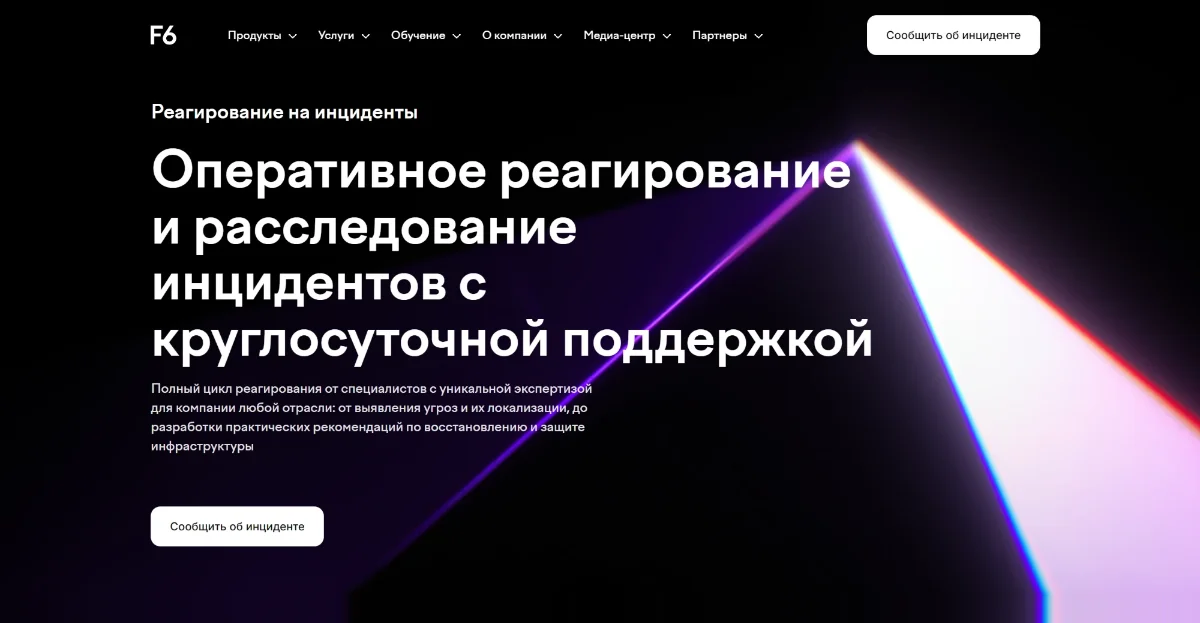
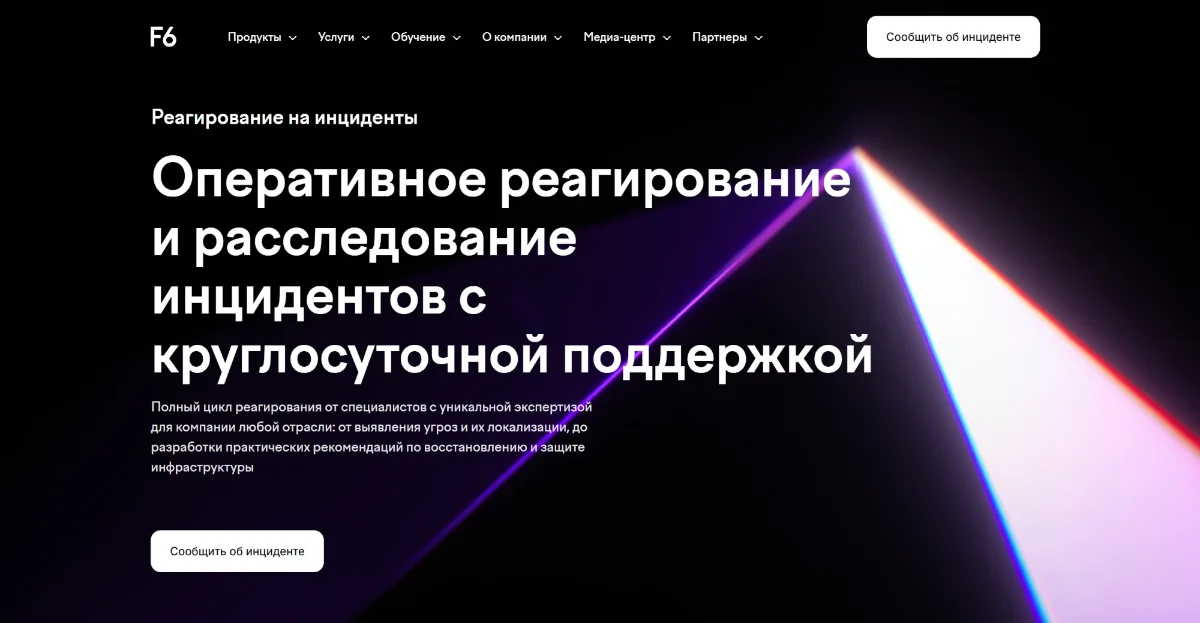
Карточки компаний: единый блок скриншота; хлебные крошки; удалена ссылка "Перейти к содержанию"
- Скриншот на всю ширину карточки сверху, одинаковая рамка у всех 10 карточек
- Добивка скриншотов до 1200x623 основным цветом нижнего края; F6 растянут по высоте на 4,5%
- Хлебные крошки гайдов без промежуточного элемента "Гайды"
- Удалена ссылка "Перейти к содержанию"

diff --git a/tools/gen/towebp.html b/tools/gen/towebp.html
@@ -1,16 +1,19 @@
 <!doctype html><meta charset="utf-8"><title>webp</title>
 <script>
 // Скриншоты -> WebP единого размера 1200x623 БЕЗ обрезки: картинка вписывается целиком (по ширине,
-// а если выше рамки - по высоте), свободное место снизу заполняется продолжением нижнего ряда пикселей (бесшовно).
+// а если выше рамки - по высоте), свободное место снизу заливается основным (самым частым) цветом нижнего края.
 // Результат в <pre id="out-slug"> для --dump-dom. ?src=папка_исходников (file://)
 var W=1200,H=623;
+// Скриншоты, которые растягиваются до рамки по высоте вместо добивки (не больше 5%): f6 992->1033 px.
+var STRETCH=['f6'];
 var slugs=['paranoid-security','f6','solar','bi-zone','kaspersky','rtm-group','kredo-s','positive-technologies','ussc','bastion'];
 var src=new URLSearchParams(location.search).get('src')||'';
+function modeColor(img){var c=document.createElement('canvas');c.width=img.naturalWidth;c.height=1;var x=c.getContext('2d');x.drawImage(img,0,img.naturalHeight-1,img.naturalWidth,1,0,0,img.naturalWidth,1);var d=x.getImageData(0,0,img.naturalWidth,1).data,m={},best=null,bn=0;for(var i=0;i<d.length;i+=4){var k=(d[i]>>3)+','+(d[i+1]>>3)+','+(d[i+2]>>3);m[k]=(m[k]||0)+1;if(m[k]>bn){bn=m[k];best=[d[i],d[i+1],d[i+2]];}}return 'rgb('+best.join(',')+')';}
 function edgeColor(img,bottom){var c=document.createElement('canvas');c.width=img.naturalWidth;c.height=1;var x=c.getContext('2d');x.drawImage(img,0,bottom?img.naturalHeight-1:0,img.naturalWidth,1,0,0,img.naturalWidth,1);var d=x.getImageData(0,0,img.naturalWidth,1).data,r=0,g=0,b=0,n=0;for(var i=0;i<d.length;i+=4){r+=d[i];g+=d[i+1];b+=d[i+2];n++;}return 'rgb('+Math.round(r/n)+','+Math.round(g/n)+','+Math.round(b/n)+')';}
 function load(s,exts){return new Promise(function(res){if(!exts.length)return res(null);var i=new Image();i.onload=function(){res(i)};i.onerror=function(){load(s,exts.slice(1)).then(res)};i.src=src+'/'+s+'.'+exts[0];});}
 Promise.all(slugs.map(function(s){return load(s,['webp','png']).then(function(i){if(!i)return;
   var c=document.createElement('canvas');c.width=W;c.height=H;var x=c.getContext('2d');x.imageSmoothingQuality='high';
-  var k=Math.min(W/i.naturalWidth,H/i.naturalHeight);var w=Math.round(i.naturalWidth*k),h=Math.round(i.naturalHeight*k);
-  x.fillStyle=edgeColor(i,true);x.fillRect(0,0,W,H);var ox=Math.round((W-w)/2);x.drawImage(i,0,0,i.naturalWidth,i.naturalHeight,ox,0,w,h);if(h<H){x.drawImage(i,0,i.naturalHeight-1,i.naturalWidth,1,ox,h,w,H-h);}
+  var k=Math.min(W/i.naturalWidth,H/i.naturalHeight);var w=Math.round(i.naturalWidth*k),h=Math.round(i.naturalHeight*k);if(STRETCH.indexOf(s)>=0){w=W;h=H;}
+  x.fillStyle=modeColor(i);x.fillRect(0,0,W,H);var ox=Math.round((W-w)/2);x.drawImage(i,0,0,i.naturalWidth,i.naturalHeight,ox,0,w,h);
   var p=document.createElement('pre');p.id='out-'+s;p.textContent=c.toDataURL('image/webp',0.85);p.dataset.info=i.naturalWidth+'x'+i.naturalHeight+' -> '+w+'x'+h+' pad '+(H-h);document.body.appendChild(p);});})).then(function(){document.title='done';});
 </script>

diff --git a/docs/rassledovanie-krazhi-kriptovalyuty/index.html b/docs/rassledovanie-krazhi-kriptovalyuty/index.html
@@ -140,7 +140,6 @@
 </script>
 </head>
 <body id="top">
-<a class="ir-skip" href="#main">Перейти к содержанию</a>
 <header class="ir-header" role="banner">
 <div class="ir-wrap ir-header__in">
 <a class="ir-logo" href="../"><svg viewBox="0 0 32 32" width="32" height="32" aria-hidden="true" focusable="false"><rect width="32" height="32" rx="6" fill="#0B1F3A"/><path d="M16 5.5 7.5 9v6.2c0 5.3 3.6 9.4 8.5 11.3 4.9-1.9 8.5-6 8.5-11.3V9Z" fill="none" stroke="#0EA5A4" stroke-width="2" stroke-linejoin="round"/><circle cx="15" cy="14.5" r="3.6" fill="none" stroke="#0EA5A4" stroke-width="2"/><path d="m17.7 17.2 3 3" stroke="#0EA5A4" stroke-width="2" stroke-linecap="round"/></svg><span>Рейтинг IR-компаний</span></a>
@@ -183,7 +182,7 @@
 </ol>
 </nav></aside>
 <article class="ir-article">
-<nav class="ir-crumbs" aria-label="Хлебные крошки"><ol><li><a href="../">Рейтинг</a></li><li>Гайды</li><li aria-current="page">Расследование кражи криптовалюты</li></ol></nav>
+<nav class="ir-crumbs" aria-label="Хлебные крошки"><ol><li><a href="../">Рейтинг</a></li><li aria-current="page">Расследование кражи криптовалюты</li></ol></nav>
 <header class="ir-intro">
 <h1>Расследование кражи криптовалюты у компании: этапы и возможности</h1>
 <div class="ir-byline">

diff --git a/docs/kompyuternaya-kriminalistika/index.html b/docs/kompyuternaya-kriminalistika/index.html
@@ -140,7 +140,6 @@
 </script>
 </head>
 <body id="top">
-<a class="ir-skip" href="#main">Перейти к содержанию</a>
 <header class="ir-header" role="banner">
 <div class="ir-wrap ir-header__in">
 <a class="ir-logo" href="../"><svg viewBox="0 0 32 32" width="32" height="32" aria-hidden="true" focusable="false"><rect width="32" height="32" rx="6" fill="#0B1F3A"/><path d="M16 5.5 7.5 9v6.2c0 5.3 3.6 9.4 8.5 11.3 4.9-1.9 8.5-6 8.5-11.3V9Z" fill="none" stroke="#0EA5A4" stroke-width="2" stroke-linejoin="round"/><circle cx="15" cy="14.5" r="3.6" fill="none" stroke="#0EA5A4" stroke-width="2"/><path d="m17.7 17.2 3 3" stroke="#0EA5A4" stroke-width="2" stroke-linecap="round"/></svg><span>Рейтинг IR-компаний</span></a>
@@ -184,7 +183,7 @@
 </ol>
 </nav></aside>
 <article class="ir-article">
-<nav class="ir-crumbs" aria-label="Хлебные крошки"><ol><li><a href="../">Рейтинг</a></li><li>Гайды</li><li aria-current="page">Компьютерная криминалистика</li></ol></nav>
+<nav class="ir-crumbs" aria-label="Хлебные крошки"><ol><li><a href="../">Рейтинг</a></li><li aria-current="page">Компьютерная криминалистика</li></ol></nav>
 <header class="ir-intro">
 <h1>Компьютерная криминалистика: что это и как проводится</h1>
 <div class="ir-byline">

diff --git a/docs/utechka-personalnyh-dannyh-uvedomlenie-rkn/index.html b/docs/utechka-personalnyh-dannyh-uvedomlenie-rkn/index.html
@@ -140,7 +140,6 @@
 </script>
 </head>
 <body id="top">
-<a class="ir-skip" href="#main">Перейти к содержанию</a>
 <header class="ir-header" role="banner">
 <div class="ir-wrap ir-header__in">
 <a class="ir-logo" href="../"><svg viewBox="0 0 32 32" width="32" height="32" aria-hidden="true" focusable="false"><rect width="32" height="32" rx="6" fill="#0B1F3A"/><path d="M16 5.5 7.5 9v6.2c0 5.3 3.6 9.4 8.5 11.3 4.9-1.9 8.5-6 8.5-11.3V9Z" fill="none" stroke="#0EA5A4" stroke-width="2" stroke-linejoin="round"/><circle cx="15" cy="14.5" r="3.6" fill="none" stroke="#0EA5A4" stroke-width="2"/><path d="m17.7 17.2 3 3" stroke="#0EA5A4" stroke-width="2" stroke-linecap="round"/></svg><span>Рейтинг IR-компаний</span></a>
@@ -183,7 +182,7 @@
 </ol>
 </nav></aside>
 <article class="ir-article">
-<nav class="ir-crumbs" aria-label="Хлебные крошки"><ol><li><a href="../">Рейтинг</a></li><li>Гайды</li><li aria-current="page">Утечка персональных данных</li></ol></nav>
+<nav class="ir-crumbs" aria-label="Хлебные крошки"><ol><li><a href="../">Рейтинг</a></li><li aria-current="page">Утечка персональных данных</li></ol></nav>
 <header class="ir-intro">
 <h1>Утечка персональных данных: уведомление РКН за 24 и 72 часа</h1>
 <div class="ir-byline">

diff --git a/docs/chto-delat-pri-incidente-ib/index.html b/docs/chto-delat-pri-incidente-ib/index.html
@@ -140,7 +140,6 @@
 </script>
 </head>
 <body id="top">
-<a class="ir-skip" href="#main">Перейти к содержанию</a>
 <header class="ir-header" role="banner">
 <div class="ir-wrap ir-header__in">
 <a class="ir-logo" href="../"><svg viewBox="0 0 32 32" width="32" height="32" aria-hidden="true" focusable="false"><rect width="32" height="32" rx="6" fill="#0B1F3A"/><path d="M16 5.5 7.5 9v6.2c0 5.3 3.6 9.4 8.5 11.3 4.9-1.9 8.5-6 8.5-11.3V9Z" fill="none" stroke="#0EA5A4" stroke-width="2" stroke-linejoin="round"/><circle cx="15" cy="14.5" r="3.6" fill="none" stroke="#0EA5A4" stroke-width="2"/><path d="m17.7 17.2 3 3" stroke="#0EA5A4" stroke-width="2" stroke-linecap="round"/></svg><span>Рейтинг IR-компаний</span></a>
@@ -183,7 +182,7 @@
 </ol>
 </nav></aside>
 <article class="ir-article">
-<nav class="ir-crumbs" aria-label="Хлебные крошки"><ol><li><a href="../">Рейтинг</a></li><li>Гайды</li><li aria-current="page">Что делать при инциденте ИБ</li></ol></nav>
+<nav class="ir-crumbs" aria-label="Хлебные крошки"><ol><li><a href="../">Рейтинг</a></li><li aria-current="page">Что делать при инциденте ИБ</li></ol></nav>
 <header class="ir-intro">
 <h1>Что делать при инциденте ИБ: план на первые 72 часа</h1>
 <div class="ir-byline">

diff --git a/assets/css/styles.css b/assets/css/styles.css
@@ -566,3 +566,17 @@ h3 { font-size: 18px; line-height: 26px; }
 .ir-timeline > li:last-child::after { display: none; }
 .ir-scale__end { font-family: var(--ir-sans); font-size: 15px; line-height: 22px; letter-spacing: 0; }
 .ir-rank thead th:nth-child(1) { font-family: var(--ir-sans); font-weight: 600; }
+
+/* Карточки компаний: скриншот на всю ширину сверху в одинаковой рамке, определение под ним.
+   Все скриншоты 1200x623, поэтому блок одинаковый во всех 10 карточках. */
+.ir-card__top { display: block; border-bottom: 0; }
+.ir-card__shot { margin: 0; padding: 16px 18px 0; background: transparent; border: 0; height: auto; }
+.ir-card__shot img { width: 100%; height: auto; aspect-ratio: 1200 / 623; object-fit: contain; border: 1px solid var(--ir-line); border-radius: var(--ir-r); background: var(--ir-tint); }
+.ir-card__lede { padding: 16px 18px 0; }
+.ir-card__lede .ir-card__def { margin-bottom: 0; }
+.ir-card__body { padding-top: 16px; }
+@media (min-width: 1024px) {
+  .ir-card__top { display: block; }
+  .ir-card__shot { border-right: 0; align-self: auto; }
+  .ir-card__lede { padding: 16px 18px 0; align-self: auto; }
+}

diff --git a/docs/assets/css/styles.css b/docs/assets/css/styles.css
@@ -566,3 +566,17 @@ h3 { font-size: 18px; line-height: 26px; }
 .ir-timeline > li:last-child::after { display: none; }
 .ir-scale__end { font-family: var(--ir-sans); font-size: 15px; line-height: 22px; letter-spacing: 0; }
 .ir-rank thead th:nth-child(1) { font-family: var(--ir-sans); font-weight: 600; }
+
+/* Карточки компаний: скриншот на всю ширину сверху в одинаковой рамке, определение под ним.
+   Все скриншоты 1200x623, поэтому блок одинаковый во всех 10 карточках. */
+.ir-card__top { display: block; border-bottom: 0; }
+.ir-card__shot { margin: 0; padding: 16px 18px 0; background: transparent; border: 0; height: auto; }
+.ir-card__shot img { width: 100%; height: auto; aspect-ratio: 1200 / 623; object-fit: contain; border: 1px solid var(--ir-line); border-radius: var(--ir-r); background: var(--ir-tint); }
+.ir-card__lede { padding: 16px 18px 0; }
+.ir-card__lede .ir-card__def { margin-bottom: 0; }
+.ir-card__body { padding-top: 16px; }
+@media (min-width: 1024px) {
+  .ir-card__top { display: block; }
+  .ir-card__shot { border-right: 0; align-self: auto; }
+  .ir-card__lede { padding: 16px 18px 0; align-self: auto; }
+}

diff --git a/docs/glossarij/index.html b/docs/glossarij/index.html
@@ -323,7 +323,6 @@
 </script>
 </head>
 <body id="top">
-<a class="ir-skip" href="#main">Перейти к содержанию</a>
 <header class="ir-header" role="banner">
 <div class="ir-wrap ir-header__in">
 <a class="ir-logo" href="../"><svg viewBox="0 0 32 32" width="32" height="32" aria-hidden="true" focusable="false"><rect width="32" height="32" rx="6" fill="#0B1F3A"/><path d="M16 5.5 7.5 9v6.2c0 5.3 3.6 9.4 8.5 11.3 4.9-1.9 8.5-6 8.5-11.3V9Z" fill="none" stroke="#0EA5A4" stroke-width="2" stroke-linejoin="round"/><circle cx="15" cy="14.5" r="3.6" fill="none" stroke="#0EA5A4" stroke-width="2"/><path d="m17.7 17.2 3 3" stroke="#0EA5A4" stroke-width="2" stroke-linecap="round"/></svg><span>Рейтинг IR-компаний</span></a>

diff --git a/docs/metodologiya/index.html b/docs/metodologiya/index.html
@@ -102,7 +102,6 @@
 </script>
 </head>
 <body id="top">
-<a class="ir-skip" href="#main">Перейти к содержанию</a>
 <header class="ir-header" role="banner">
 <div class="ir-wrap ir-header__in">
 <a class="ir-logo" href="../"><svg viewBox="0 0 32 32" width="32" height="32" aria-hidden="true" focusable="false"><rect width="32" height="32" rx="6" fill="#0B1F3A"/><path d="M16 5.5 7.5 9v6.2c0 5.3 3.6 9.4 8.5 11.3 4.9-1.9 8.5-6 8.5-11.3V9Z" fill="none" stroke="#0EA5A4" stroke-width="2" stroke-linejoin="round"/><circle cx="15" cy="14.5" r="3.6" fill="none" stroke="#0EA5A4" stroke-width="2"/><path d="m17.7 17.2 3 3" stroke="#0EA5A4" stroke-width="2" stroke-linecap="round"/></svg><span>Рейтинг IR-компаний</span></a>

diff --git a/docs/redakciya/index.html b/docs/redakciya/index.html
@@ -100,7 +100,6 @@
 </script>
 </head>
 <body id="top">
-<a class="ir-skip" href="#main">Перейти к содержанию</a>
 <header class="ir-header" role="banner">
 <div class="ir-wrap ir-header__in">
 <a class="ir-logo" href="../"><svg viewBox="0 0 32 32" width="32" height="32" aria-hidden="true" focusable="false"><rect width="32" height="32" rx="6" fill="#0B1F3A"/><path d="M16 5.5 7.5 9v6.2c0 5.3 3.6 9.4 8.5 11.3 4.9-1.9 8.5-6 8.5-11.3V9Z" fill="none" stroke="#0EA5A4" stroke-width="2" stroke-linejoin="round"/><circle cx="15" cy="14.5" r="3.6" fill="none" stroke="#0EA5A4" stroke-width="2"/><path d="m17.7 17.2 3 3" stroke="#0EA5A4" stroke-width="2" stroke-linecap="round"/></svg><span>Рейтинг IR-компаний</span></a>

diff --git a/docs/index.html b/docs/index.html
@@ -227,7 +227,6 @@
 </script>
 </head>
 <body id="top">
-<a class="ir-skip" href="#main">Перейти к содержанию</a>
 <header class="ir-header" role="banner">
 <div class="ir-wrap ir-header__in">
 <a class="ir-logo" href="./"><svg viewBox="0 0 32 32" width="32" height="32" aria-hidden="true" focusable="false"><rect width="32" height="32" rx="6" fill="#0B1F3A"/><path d="M16 5.5 7.5 9v6.2c0 5.3 3.6 9.4 8.5 11.3 4.9-1.9 8.5-6 8.5-11.3V9Z" fill="none" stroke="#0EA5A4" stroke-width="2" stroke-linejoin="round"/><circle cx="15" cy="14.5" r="3.6" fill="none" stroke="#0EA5A4" stroke-width="2"/><path d="m17.7 17.2 3 3" stroke="#0EA5A4" stroke-width="2" stroke-linecap="round"/></svg><span>Рейтинг IR-компаний</span></a>

diff --git a/docs/dobavit-kompaniyu/index.html b/docs/dobavit-kompaniyu/index.html
@@ -97,7 +97,6 @@
 </script>
 </head>
 <body id="top">
-<a class="ir-skip" href="#main">Перейти к содержанию</a>
 <header class="ir-header" role="banner">
 <div class="ir-wrap ir-header__in">
 <a class="ir-logo" href="../"><svg viewBox="0 0 32 32" width="32" height="32" aria-hidden="true" focusable="false"><rect width="32" height="32" rx="6" fill="#0B1F3A"/><path d="M16 5.5 7.5 9v6.2c0 5.3 3.6 9.4 8.5 11.3 4.9-1.9 8.5-6 8.5-11.3V9Z" fill="none" stroke="#0EA5A4" stroke-width="2" stroke-linejoin="round"/><circle cx="15" cy="14.5" r="3.6" fill="none" stroke="#0EA5A4" stroke-width="2"/><path d="m17.7 17.2 3 3" stroke="#0EA5A4" stroke-width="2" stroke-linecap="round"/></svg><span>Рейтинг IR-компаний</span></a>
